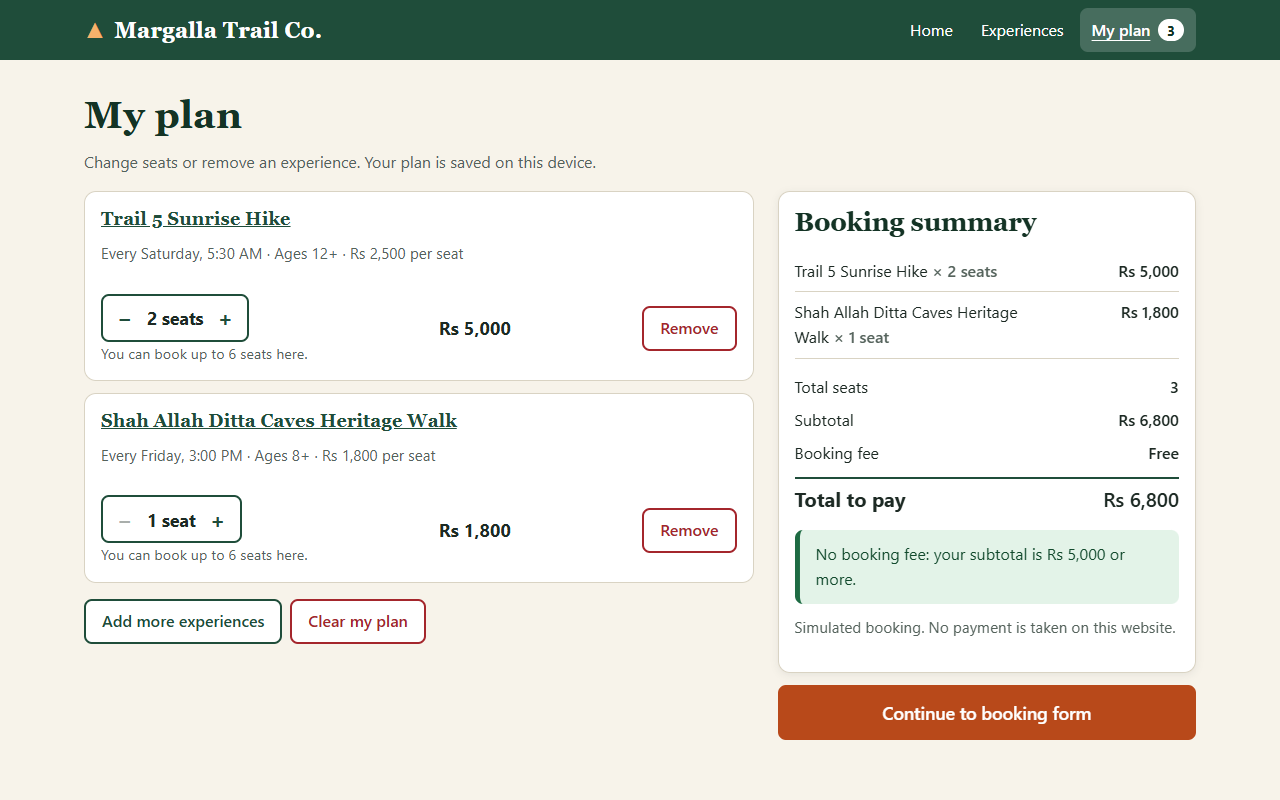
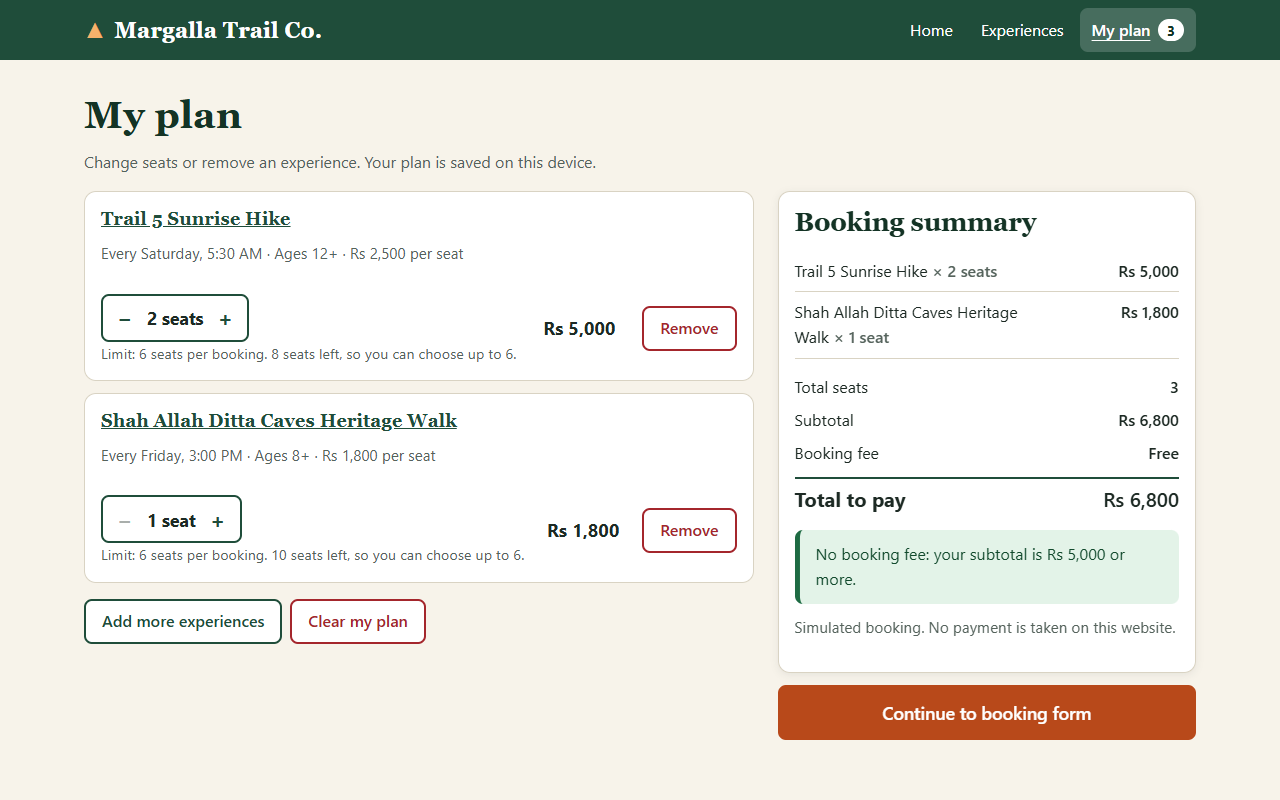
Show the add-to-plan button higher on the details page
- Move the seat stepper and Add button directly under the key facts
- Explain the seat limit in one line beside the stepper instead of two separate hints
- Refresh the evidence screenshots

Changed region(s): [[0.0625, 0.6562, 0.5, 0.7188], [0.0625, 0.4062, 0.5, 0.4688]]

diff --git a/src/pages/ExperienceDetailsPage.jsx b/src/pages/ExperienceDetailsPage.jsx
@@ -123,11 +123,6 @@ function ExperienceDetailsPage({ experiences, planItems, onSetPlanSeats, onRemov
               </div>
             </dl>
 
-            <p className="message message-info">
-              <strong>Age rule:</strong> everyone in your group must be at least {experience.minAge}{' '}
-              years old. We check the age of your youngest participant on the booking form.
-            </p>
-
             {/* key={experience.id} gives every experience its own fresh
                 panel, so the seat number never leaks from one to another. */}
             <AddToPlanPanel
@@ -137,6 +132,11 @@ function ExperienceDetailsPage({ experiences, planItems, onSetPlanSeats, onRemov
               onSetPlanSeats={onSetPlanSeats}
               onRemoveFromPlan={onRemoveFromPlan}
             />
+
+            <p className="message message-info details-rule">
+              <strong>Age rule:</strong> everyone in your group must be at least {experience.minAge}{' '}
+              years old. We check the age of your youngest participant on the booking form.
+            </p>
 
             <p className="hint">
               A {formatPrice(BOOKING_FEE)} booking fee applies to bookings under{' '}

diff --git a/src/components/SeatStepper.jsx b/src/components/SeatStepper.jsx
@@ -1,5 +1,5 @@
 import { useState } from 'react';
-import { checkSeatLimit } from '../rules/seatLimit.js';
+import { checkSeatLimit, MAX_SEATS_PER_BOOKING } from '../rules/seatLimit.js';
 import { formatSeats } from '../utils/format.js';
 
 // A minus button, the current number of seats and a plus button.
@@ -60,7 +60,11 @@ function SeatStepper({ seats, seatsLeft, onChange, itemName }) {
         </button>
       </div>
 
-      <p className="field-hint">You can book up to {formatSeats(maxAllowed)} here.</p>
+      {/* Rule 1 is explained right beside the control it limits. */}
+      <p className="field-hint">
+        Limit: {MAX_SEATS_PER_BOOKING} seats per booking. {formatSeats(seatsLeft)} left, so you can
+        choose up to {maxAllowed}.
+      </p>
 
       {limitMessage !== '' && (
         <p className="field-error" role="alert">

diff --git a/src/components/AddToPlanPanel.jsx b/src/components/AddToPlanPanel.jsx
@@ -1,7 +1,7 @@
 import { useState } from 'react';
 import { Link } from 'react-router-dom';
 import SeatStepper from './SeatStepper.jsx';
-import { checkSeatLimit, MAX_SEATS_PER_BOOKING } from '../rules/seatLimit.js';
+import { checkSeatLimit } from '../rules/seatLimit.js';
 import { formatPrice, formatSeats } from '../utils/format.js';
 
 // The "choose seats and add to plan" box on the details page.
@@ -50,9 +50,6 @@ function AddToPlanPanel({ experience, seatsInPlan, onSetPlanSeats, onRemoveFromP
         onChange={setSelectedSeats}
         itemName={experience.name}
       />
-      <p className="field-hint">
-        Rule: at most {MAX_SEATS_PER_BOOKING} seats per booking, and never more than the seats left.
-      </p>
 
       {/* The saved plan can hold more seats than are left now. */}
       {!seatCheck.ok && (

diff --git a/src/styles/pages.css b/src/styles/pages.css
@@ -117,6 +117,10 @@
   border-top: 1px solid var(--color-line);
 }
 
+.details-rule {
+  margin-top: var(--space-4);
+}
+
 .add-panel-total {
   margin: var(--space-2) 0;
   font-size: 1.05rem;
